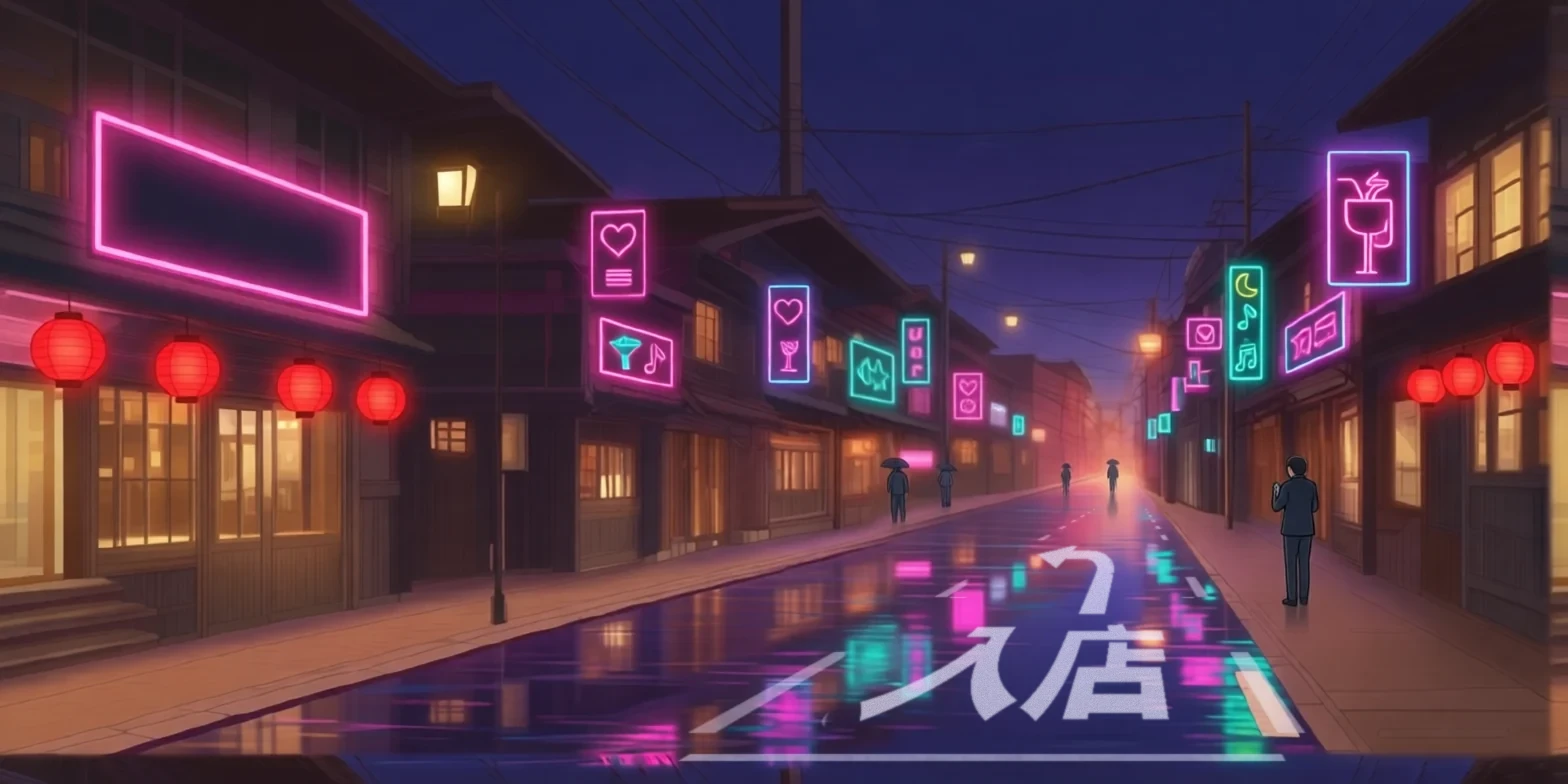
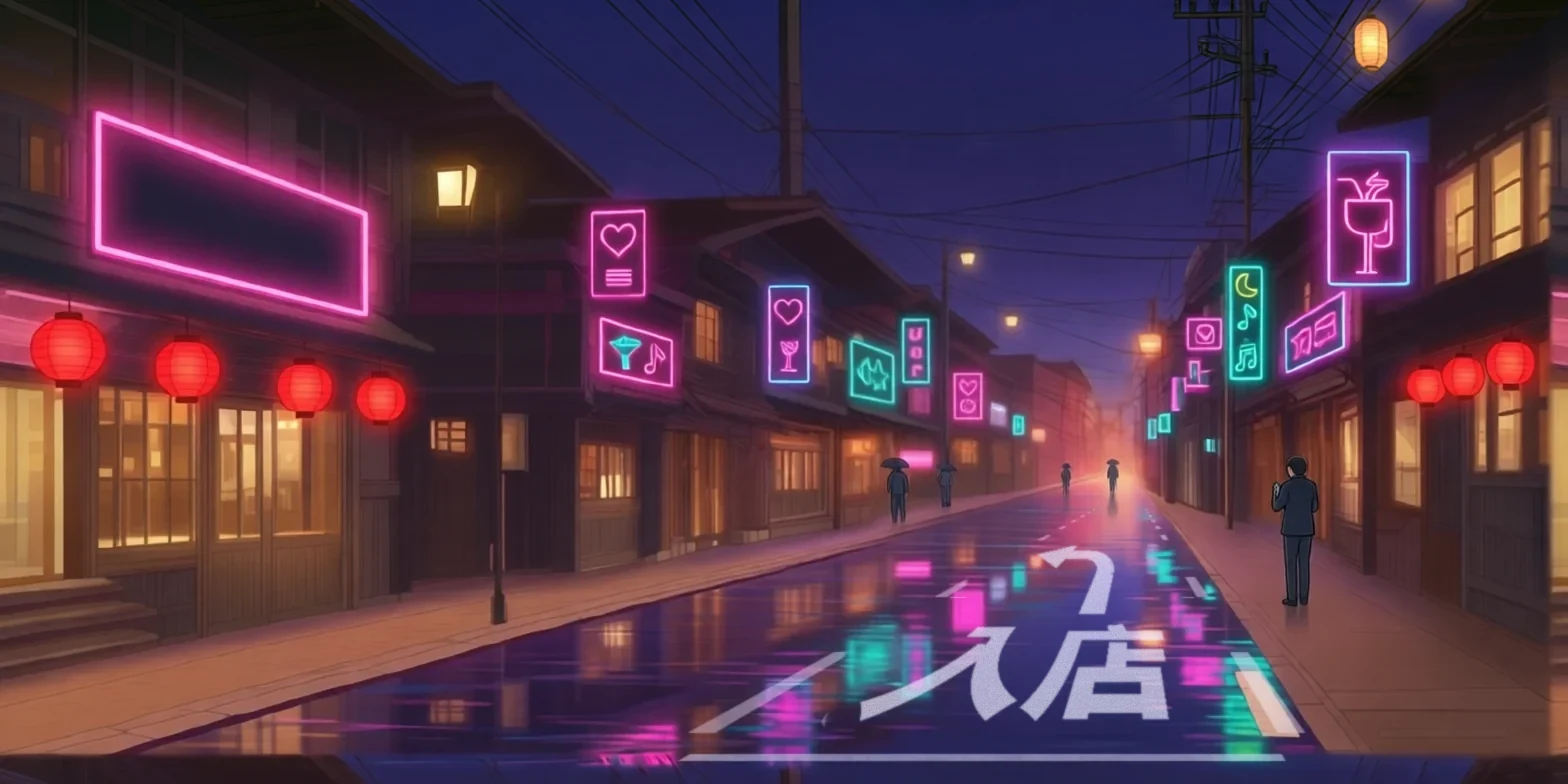
平板版面：夜街往上補天空、店內選桌與角色介紹依高度放大
Claude-Session: https://claude.ai/code/session_014MwXDsp19Wozb4LDv1uAZe

Changed region(s): [[0.75, 0.0, 0.8125, 0.1837], [0.8438, 0.0, 0.9375, 0.1224], [0.9688, 0.0, 1.0, 0.0612]]

diff --git a/index.html b/index.html
@@ -1593,14 +1593,15 @@ input::placeholder{color:#f3e9d255;letter-spacing:2px;font-size:15px}
 #prof .pvmeta{position:absolute;left:var(--edge);bottom:58px;display:flex;align-items:center;gap:14px;font:500 11.5px var(--ui);color:#9a8fae}#prof .pvmeta b{color:#fff6fc;font-weight:700;margin-right:4px}#prof .pvmeta i{font:normal 400 15px 'DotGothic16',monospace;color:var(--amb)}#prof .pvmeta i.bad{color:#ff7a86}
 #prof .pvgs{display:flex;gap:4px}#prof .pvgs button{height:22px;padding:0 9px;border-radius:11px;border:1px solid #ffffff22;background:none;color:#9a8fae;font:700 10.5px var(--ui)}#prof .pvgs button.on{border-color:var(--cyt);color:#effcff;box-shadow:0 0 6px #14c8ff66}
 #prof .pvh{position:absolute;left:var(--edge);bottom:12px;display:flex;gap:8px;width:min(390px,52%);overflow-x:auto;scroll-snap-type:x proximity;scrollbar-width:none;padding:3px 2px;-webkit-mask-image:linear-gradient(90deg,#000 calc(100% - 28px),#0000);mask-image:linear-gradient(90deg,#000 calc(100% - 28px),#0000)}#prof .pvh::-webkit-scrollbar{display:none}
+/* 平板（螢幕比較方）：文字欄、牌風、頭像列照高度放大，最多 1.3 倍（2026-11-21） */#prof .pvl{transform:scale(var(--pz,1));transform-origin:0 0}#prof .pvmeta{bottom:calc(58px*var(--pz,1));transform:scale(var(--pz,1));transform-origin:0 100%}#prof .pvh{transform:scale(var(--pz,1));transform-origin:0 100%}#prof .pvart{width:calc(100% - var(--edge)*2 - 36px - min(390px,52%)*var(--pz,1))!important}
 #prof .pvh button{flex:none;width:32px;height:32px;border-radius:50%;padding:0;border:1.5px solid #ffffff33;background:#120a1a center/cover;opacity:.55;scroll-snap-align:start;cursor:pointer}#prof .pvh button.on{opacity:1;border-color:var(--pkt);box-shadow:0 0 6px #fff,0 0 12px var(--pk)}
 #setm .snote{margin:-3px 0 9px 16px;font:500 10.5px/1.4 'Noto Sans TC',sans-serif;color:#9a8fae}
 #st-info .st-cp{margin-top:10px;font-size:10px;line-height:1.5;color:#9a8fae}:is(#st-info,#st-bankm) .st-row b{flex:none;width:48px;color:#bdaf9b;font-weight:500}
 
 #st-wrap{position:absolute;inset:0;z-index:0;overflow:hidden;background:linear-gradient(#0c0c22,#1a1a40 85%,#22224c)}
-/* squarer screens (iPad): fill the sky above the stage with a blurred mirror of the plate's top, fading to night; the stage top melts into it (2026-11-19) */
-#st-wrap::before{content:"";position:absolute;left:-40px;right:-40px;top:-40px;height:calc(var(--gap,0px) + 80px);background:url(img/plate.webp) 50% 0/calc(100% - 80px) auto no-repeat;transform:scaleY(-1);filter:blur(22px) brightness(.6) saturate(1.2);pointer-events:none}
-#st-wrap::after{content:"";position:absolute;left:0;right:0;top:0;height:calc(var(--gap,0px) + 2px);background:linear-gradient(#07050c 0%,#07050cd0 35%,#07050c00 100%);pointer-events:none}
+/* squarer screens (iPad): the plate continues upward (img/plate_top.webp = outpainted sky/rooftops, 1568x441, its bottom 70px overlap the plate's top rows; same 790-wide placement as #st-bg); stage top melts into it; beyond it, fade to night (2026-11-21) */
+#st-wrap::before{content:"";position:absolute;left:calc(50% - var(--sk,1)*395px);width:calc(var(--sk,1)*790px);top:calc(var(--gap,0px) - var(--sk,1)*188.94px);height:calc(var(--sk,1)*222.19px);background:url(img/plate_top.webp) 0 0/100% 100% no-repeat;pointer-events:none}
+#st-wrap::after{content:"";position:absolute;left:0;right:0;top:0;height:max(0px,calc(var(--gap,0px) - var(--sk,1)*188.94px + 60px));background:linear-gradient(#0c0c22 0,#0c0c22 calc(100% - 60px),#0c0c2200);pointer-events:none}
 #st-st{-webkit-mask-image:linear-gradient(#0000,#000 34px);mask-image:linear-gradient(#0000,#000 34px)}
 #st-bg{-webkit-mask:linear-gradient(#0000,#000 9%);mask:linear-gradient(#0000,#000 9%)}
 #menu>#kv,#menu>.card{display:none!important}
@@ -1660,10 +1661,10 @@ input::placeholder{color:#f3e9d255;letter-spacing:2px;font-size:15px}
 #st-in>.bg{position:absolute;inset:0;background:url(img/room.webp) 50% 50%/cover;filter:brightness(.45) saturate(1.1)}
 #st-in>.vg{position:absolute;inset:0;background:radial-gradient(ellipse 70% 75% at 60% 50%,#0000 35%,#07050cdd 100%),linear-gradient(#07050c00 60%,#07050ccc)}
 #st-in>.fade{position:absolute;inset:0;z-index:9;background:#07050c;pointer-events:none;animation:stInFade .7s ease-out .05s forwards}@keyframes stInFade{0%{opacity:1}100%{opacity:0}}
-#st-ist{position:absolute;left:50%;bottom:0;width:755px;height:395px;transform-origin:50% 100%;transform:translateX(-50%) scale(var(--ik,1))}
-#st-hs{position:absolute;left:30px;bottom:0;width:170px;height:338px;pointer-events:none}
+#st-ist{position:absolute;left:50%;bottom:0;width:755px;height:calc(395px + var(--ig,0px));transform-origin:50% 100%;transform:translateX(-50%) scale(var(--ik,1))}
+#st-hs{position:absolute;left:30px;bottom:0;width:calc(170px + var(--ig,0px)*.36);height:calc(338px + var(--ig,0px)*.72);pointer-events:none}
 #st-hs img{width:100%;height:100%;object-fit:contain;object-position:50% 100%;filter:drop-shadow(0 0 10px #ff2fae55)}
-#st-hsay{position:absolute;left:176px;top:70px;z-index:4;max-width:236px;padding:20px 34px 24px 24px;margin:-8px 0 0 -8px;border:0;border-radius:0;box-shadow:none;background:radial-gradient(closest-side,#07050cea 55%,#07050c00);font:500 13px/1.8 "Noto Serif TC",serif;letter-spacing:.06em;color:#fff;text-shadow:0 1px 2px #000,0 0 10px #000;text-wrap:balance;opacity:0;translate:0 6px;transition:opacity .35s .5s,translate .35s .5s}
+#st-hsay{position:absolute;left:calc(176px + var(--ig,0px)*.36);top:calc(70px + var(--ig,0px)*.28);z-index:4;max-width:236px;padding:20px 34px 24px 24px;margin:-8px 0 0 -8px;border:0;border-radius:0;box-shadow:none;background:radial-gradient(closest-side,#07050cea 55%,#07050c00);font:500 13px/1.8 "Noto Serif TC",serif;letter-spacing:.06em;color:#fff;text-shadow:0 1px 2px #000,0 0 10px #000;text-wrap:balance;opacity:0;translate:0 6px;transition:opacity .35s .5s,translate .35s .5s}
 #st-in.on #st-hsay{opacity:1;translate:0 0}
 #st-inBack{position:absolute;left:var(--edge);top:14px;z-index:6;width:32px;height:32px;border-radius:50%;border:1px solid #ffffff44;background:#0b0710aa;color:#fff;display:flex;align-items:center;justify-content:center;padding:0;cursor:pointer}
 #st-inBack:active{background:#ffffff14}
@@ -2880,7 +2881,7 @@ function sfx(name){
     case 'lock':tone(t,1600,.05,.07,'square');tone(t+.09,2000,.08,.07,'square');break
     case 'alarm':tone(t,520,.12,.08,'square');tone(t+.13,390,.16,.08,'square');break}}catch(e){}}
 function sndBtn(){const b=$('snd');b.classList.toggle('off',!SND.on);b.textContent=SND.on?'開':'關'}
-const VER='2026.1121.2130';document.querySelectorAll('.verv').forEach(e=>e.textContent=VER);
+const VER='2026.1121.2331';document.querySelectorAll('.verv').forEach(e=>e.textContent=VER);
 function setPage(pg){document.querySelectorAll('#setm section').forEach(x=>x.hidden=x.dataset.p!==pg);
   if(pg==='net')netShow();
   if(pg==='quit')$('quitTxt').textContent=R?(isHost?'你是房主，離開後包廂會解散，其他人也無法繼續。':'離開後回到主選單，你的位子會改成託管。'):'這一場的進度不會保存，確定回到主選單？'}
@@ -3746,7 +3747,7 @@ $i('st-gMj').onclick=()=>{curGame='mahjong';loadGame(curGame).catch(()=>{});inPa
 $i('st-gC13').onclick=()=>{curGame='c13';loadGame(curGame).catch(()=>{});inPane('mode')};
 $i('st-gBig').onclick=()=>{hline('大老二還在裝潢，過陣子再來。')};
 /* the 755x395 street stage covers the menu at any size (RW/RH = logical size before UIZ zoom); the shop interior fits whole (contain) */
-function stFit(){const m=document.getElementById('st-wrap');if(m&&typeof RW!=='undefined'){m.style.setProperty('--sk',RW/755);m.style.setProperty('--gap',Math.max(0,Math.ceil(RH-395*RW/755))+'px');$i('st-ist').style.setProperty('--ik',Math.min(RW/755,RH/395))}/* fit the width, street anchored to the bottom: wide screens lose sky, squarer ones get extra sky */}
+function stFit(){const m=document.getElementById('st-wrap');if(m&&typeof RW!=='undefined'){m.style.setProperty('--sk',RW/755);m.style.setProperty('--gap',Math.max(0,Math.ceil(RH-395*RW/755))+'px');document.documentElement.style.setProperty('--pz',Math.min(1.3,Math.max(1,RH/440)).toFixed(3));const ik=Math.min(RW/755,RH/395),is=$i('st-ist').style;is.setProperty('--ik',ik);is.setProperty('--ig',Math.max(0,Math.floor(RH/ik-395))+'px')}/* fit the width, street anchored to the bottom: wide screens lose sky, squarer ones get extra sky */}
 addEventListener('resize',()=>setTimeout(stFit,0));setTimeout(stFit,0);setTimeout(stFit,600);
 setTimeout(()=>{new Image().src='img/room.webp'},3000);/* 2026-11-21: warm the shop interior so it doesn't pop in late on the first enter */
 

diff --git a/sw.js b/sw.js
@@ -1,7 +1,7 @@
 /* offline cache (2026-11-21). tools/swstamp.py (run by deploy-pages.sh) stamps V and FILES at deploy time.
    one cache per version, swapped as a whole (no mixing new index.html with old art); the page asks before switching.
    same-origin GET = cache first; Google Fonts = stale-while-revalidate; everything else (TURN api, PeerJS) untouched. */
-const V='2026.1121.2130',FILES=["avatars.js", "tiles.js", "voices.js", "manifest.webmanifest", "lib/three.module.min.js", "lib/RoundedBoxGeometry.js", "lib/peerjs.min.js", "img/gf_boom.webp", "img/gf_ham.webp", "img/gf_kiss.webp", "img/gf_rkt.webp", "img/gf_spk.webp", "img/icon-180.png", "img/icon-192.png", "img/icon-512.png", "img/plate.webp", "img/road_enter.webp", "img/road_room.webp", "img/road_solo.webp", "img/room.webp", "img/serin.webp", "games/c13/arranger.mjs", "games/c13/cards.mjs", "games/c13/engine.mjs", "games/c13/game.mjs", "games/c13/stats.mjs", "games/c13/style.css", "games/mahjong/table3d.js"],C='mj-'+V,FONT='mj-font';
+const V='2026.1121.2331',FILES=["avatars.js", "tiles.js", "voices.js", "manifest.webmanifest", "lib/three.module.min.js", "lib/RoundedBoxGeometry.js", "lib/peerjs.min.js", "img/gf_boom.webp", "img/gf_ham.webp", "img/gf_kiss.webp", "img/gf_rkt.webp", "img/gf_spk.webp", "img/icon-180.png", "img/icon-192.png", "img/icon-512.png", "img/plate.webp", "img/plate_top.webp", "img/road_enter.webp", "img/road_room.webp", "img/road_solo.webp", "img/room.webp", "img/serin.webp", "games/c13/arranger.mjs", "games/c13/cards.mjs", "games/c13/engine.mjs", "games/c13/game.mjs", "games/c13/stats.mjs", "games/c13/style.css", "games/mahjong/table3d.js"],C='mj-'+V,FONT='mj-font';
 const SCOPE=new URL('./',self.location).pathname;
 self.addEventListener('install',e=>{e.waitUntil(caches.open(C).then(c=>c.addAll(['./',...FILES].map(u=>new Request(u,{cache:'no-cache'})))))});
 self.addEventListener('activate',e=>{e.waitUntil(caches.keys().then(ks=>Promise.all(ks.filter(k=>k.startsWith('mj-')&&k!==C&&k!==FONT).map(k=>caches.delete(k)))).then(()=>self.clients.claim()))});
